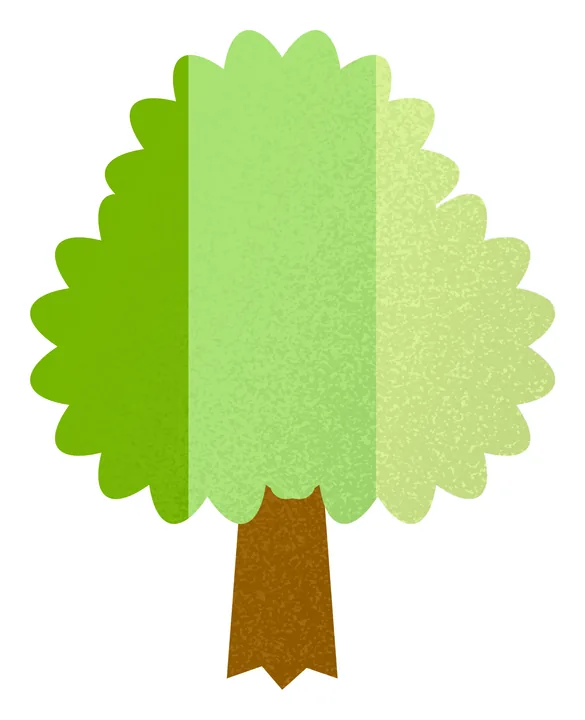
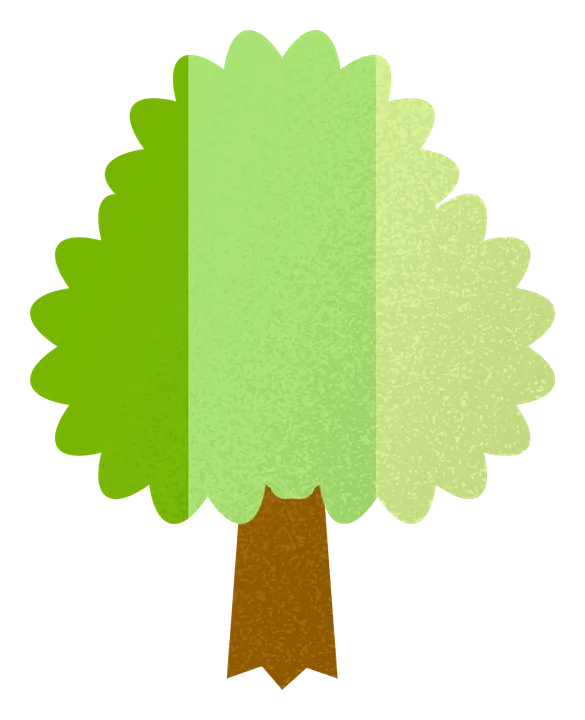
fix: 草木の素材の白い背景を透明にした／取り込み用に npm run bg:objects を足した
支給の png は透明の情報を持たず背景が白く塗られていたため、山の上に白い四角が出ていた。
scripts/importWorldObjects.mjs が、画像のふちからつながった白だけを透明にし（輪郭は半透明に戻す）、
高さ 720px の webp（透明つき）にして、素材の一覧も作り直す。
check:mountain に「草木の webp が透明の情報を持つこと」を足した。支給の png は .gitignore で外す。

diff --git a/public/js/mountainAssets.generated.js b/public/js/mountainAssets.generated.js
@@ -40,12 +40,12 @@ export const BG_ASSETS = {
       {"n":"9","c":"b","s":"l","w":900,"h":782,"f":"MorningMeadow-9-b-l.webp","v":"c32ddd48"},
     ],
     WorldSpawnedObjects: [
-      {"n":"1","w":383,"h":720,"f":"MorningMeadow-1.webp","v":"17d639ff"},
-      {"n":"2","w":383,"h":720,"f":"MorningMeadow-2.webp","v":"20cb66ff"},
-      {"n":"3","w":384,"h":720,"f":"MorningMeadow-3.webp","v":"5636fbd6"},
-      {"n":"4","w":395,"h":720,"f":"MorningMeadow-4.webp","v":"668ea756"},
-      {"n":"5","w":395,"h":720,"f":"MorningMeadow-5.webp","v":"f86879e9"},
-      {"n":"6","w":395,"h":720,"f":"MorningMeadow-6.webp","v":"5edf47fc"},
+      {"n":"1","w":383,"h":720,"f":"MorningMeadow-1.webp","v":"7a47892f"},
+      {"n":"2","w":383,"h":720,"f":"MorningMeadow-2.webp","v":"1c433e0a"},
+      {"n":"3","w":384,"h":720,"f":"MorningMeadow-3.webp","v":"15f45de0"},
+      {"n":"4","w":395,"h":720,"f":"MorningMeadow-4.webp","v":"bbcdc54d"},
+      {"n":"5","w":395,"h":720,"f":"MorningMeadow-5.webp","v":"a7c2a7de"},
+      {"n":"6","w":395,"h":720,"f":"MorningMeadow-6.webp","v":"33ee2b68"},
     ],
     phenomenon: [],
   },
@@ -103,11 +103,11 @@ export const BG_ASSETS = {
       {"n":"9","c":"c","s":"r","w":900,"h":782,"f":"WindyMeadow-9-c-r.webp","v":"7fa5eb4d"},
     ],
     WorldSpawnedObjects: [
-      {"n":"1","w":818,"h":720,"f":"WindyMeadow-1.webp","v":"5aba35b2"},
-      {"n":"2","w":585,"h":720,"f":"WindyMeadow-2.webp","v":"946ca34b"},
-      {"n":"3","w":371,"h":720,"f":"WindyMeadow-3.webp","v":"336ae993"},
-      {"n":"4","w":371,"h":720,"f":"WindyMeadow-4.webp","v":"36a415aa"},
-      {"n":"5","w":372,"h":720,"f":"WindyMeadow-5.webp","v":"03bd5d57"},
+      {"n":"1","w":818,"h":720,"f":"WindyMeadow-1.webp","v":"27560291"},
+      {"n":"2","w":585,"h":720,"f":"WindyMeadow-2.webp","v":"c3f370ab"},
+      {"n":"3","w":371,"h":720,"f":"WindyMeadow-3.webp","v":"3c44cf12"},
+      {"n":"4","w":371,"h":720,"f":"WindyMeadow-4.webp","v":"cd3ecadb"},
+      {"n":"5","w":372,"h":720,"f":"WindyMeadow-5.webp","v":"d5035e6b"},
     ],
     phenomenon: [],
   },

diff --git a/public/index.html b/public/index.html
@@ -89,6 +89,6 @@
        ★更新するときは必ずパスのバージョンを変えること。同じパスのまま中身を差し替えると、
        古いものが配信され続ける（images/bg と同じ約束）。 -->
   <script defer src="/js/vendor/lottie-web/5.13.0/lottie_light.min.js"></script>
-  <script type="module" src="/js/v8f210698/main.js"></script>
+  <script type="module" src="/js/v2e828483/main.js"></script>
 </body>
 </html>
